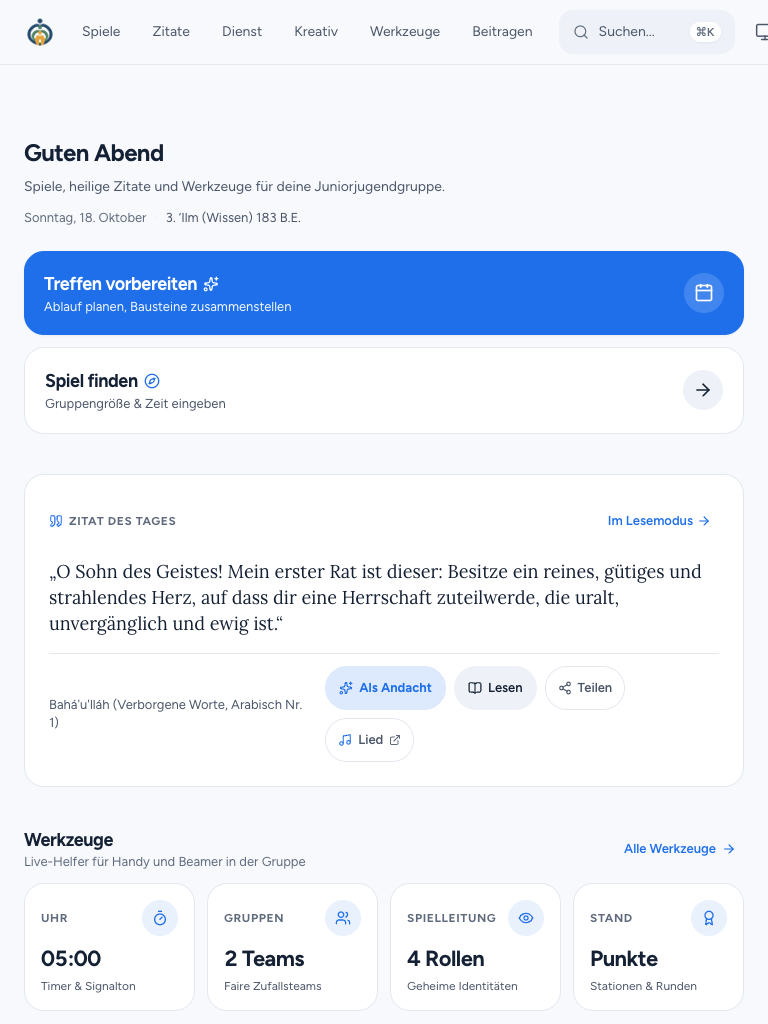
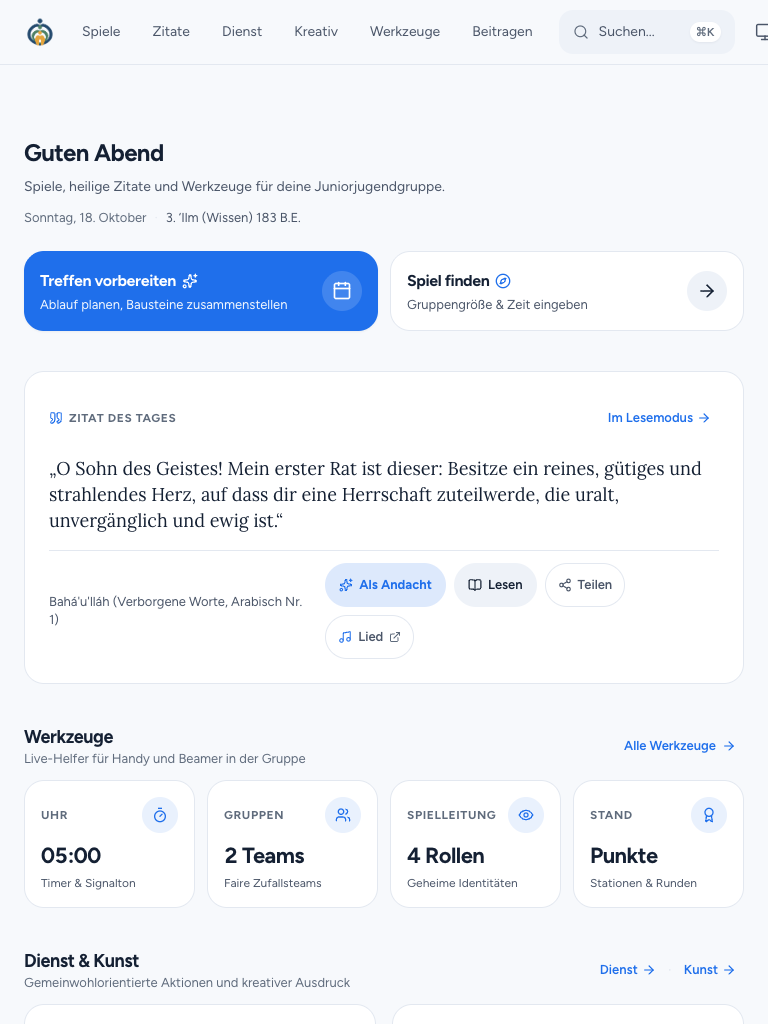
feat(home): display CTAs side-by-side in vertical viewports and stacked in horizontal viewports

diff --git a/src/components/HomeView.tsx b/src/components/HomeView.tsx
@@ -333,27 +333,30 @@ export const HomeView: React.FC<HomeViewProps> = ({ language, favorites }) => {
           </p>
         </header>
 
-        {/* Rechte Spalte: Die zwei großen CTA-Kacheln übereinander (lg:col-span-5) */}
+        {/* Rechte Spalte: In vertikaler Darstellung (Mobile) nebeneinander, in horizontaler Darstellung (Desktop) übereinander */}
         <div className="lg:col-span-5 space-y-3">
-          <nav aria-label={L('Haupteinstiege', 'Main navigation')} className="flex flex-col gap-3">
+          <nav
+            aria-label={L('Haupteinstiege', 'Main navigation')}
+            className="grid grid-cols-2 lg:flex lg:flex-col gap-2.5 sm:gap-3"
+          >
             {/* Hauptaktion: Treffen vorbereiten */}
             <Link
               to="/treffen"
-              className="rounded-card bg-accent text-accent-contrast p-4 sm:p-5 shadow-1 hover:bg-accent-hover transition-all duration-150 flex items-center justify-between group cursor-pointer focus-visible:ring-2 focus-visible:ring-accent"
+              className="rounded-card bg-accent text-accent-contrast p-3.5 sm:p-4 lg:p-5 shadow-1 hover:bg-accent-hover transition-all duration-150 flex flex-col justify-between sm:flex-row sm:items-center sm:justify-between group cursor-pointer focus-visible:ring-2 focus-visible:ring-accent min-h-[92px] sm:min-h-0"
             >
-              <div className="space-y-0.5 min-w-0 pr-2">
-                <div className="flex items-center gap-1.5 font-extrabold text-base sm:text-lg tracking-tight">
+              <div className="space-y-0.5 min-w-0 pr-1">
+                <div className="flex items-center gap-1.5 font-extrabold text-sm sm:text-base lg:text-lg tracking-tight">
                   <span>{L('Treffen vorbereiten', 'Prepare gathering')}</span>
-                  <Sparkles className="w-4 h-4 text-accent-contrast shrink-0" />
+                  <Sparkles className="w-3.5 h-3.5 sm:w-4 sm:h-4 text-accent-contrast shrink-0" />
                 </div>
-                <p className="text-xs text-accent-contrast/95 font-medium leading-tight">
+                <p className="text-2xs sm:text-xs text-accent-contrast/95 font-medium leading-tight">
                   {slotCount > 0
                     ? `${slotCount} ${L('Bausteine', 'blocks')} · ${totalMinutes} min`
                     : L('Ablauf planen, Bausteine zusammenstellen', 'Plan agenda, assemble building blocks')}
                 </p>
               </div>
-              <div className="w-10 h-10 rounded-full bg-accent-contrast/15 flex items-center justify-center shrink-0 group-hover:translate-x-0.5 transition-transform">
-                <Calendar className="w-5 h-5 text-accent-contrast" />
+              <div className="w-8 h-8 sm:w-10 sm:h-10 rounded-full bg-accent-contrast/15 flex items-center justify-center shrink-0 self-end sm:self-center mt-2 sm:mt-0 group-hover:translate-x-0.5 transition-transform">
+                <Calendar className="w-4 h-4 sm:w-5 sm:h-5 text-accent-contrast" />
               </div>
             </Link>
 
@@ -361,19 +364,19 @@ export const HomeView: React.FC<HomeViewProps> = ({ language, favorites }) => {
             <button
               type="button"
               onClick={() => setShowCompactFinder(!showCompactFinder)}
-              className="rounded-card bg-surface border border-line p-4 sm:p-5 shadow-xs hover:border-accent hover:shadow-1 transition-all duration-150 flex items-center justify-between group cursor-pointer text-left focus-visible:ring-2 focus-visible:ring-accent"
+              className="rounded-card bg-surface border border-line p-3.5 sm:p-4 lg:p-5 shadow-xs hover:border-accent hover:shadow-1 transition-all duration-150 flex flex-col justify-between sm:flex-row sm:items-center sm:justify-between group cursor-pointer text-left focus-visible:ring-2 focus-visible:ring-accent min-h-[92px] sm:min-h-0"
             >
-              <div className="space-y-0.5 min-w-0 pr-2">
-                <div className="flex items-center gap-1.5 font-bold text-base sm:text-lg text-text group-hover:text-accent tracking-tight transition-colors">
+              <div className="space-y-0.5 min-w-0 pr-1">
+                <div className="flex items-center gap-1.5 font-bold text-sm sm:text-base lg:text-lg text-text group-hover:text-accent tracking-tight transition-colors">
                   <span>{L('Spiel finden', 'Find a game')}</span>
-                  <Compass className="w-4 h-4 text-accent shrink-0" />
+                  <Compass className="w-3.5 h-3.5 sm:w-4 sm:h-4 text-accent shrink-0" />
                 </div>
-                <p className="text-xs text-text-secondary leading-tight">
+                <p className="text-2xs sm:text-xs text-text-secondary leading-tight">
                   {L('Gruppengröße & Zeit eingeben', 'Pick group size & time')}
                 </p>
               </div>
-              <div className="w-10 h-10 rounded-full bg-surface-2 text-text flex items-center justify-center shrink-0 group-hover:bg-accent/15 group-hover:text-accent transition-colors">
-                <ArrowRight className="w-5 h-5" />
+              <div className="w-8 h-8 sm:w-10 sm:h-10 rounded-full bg-surface-2 text-text flex items-center justify-center shrink-0 self-end sm:self-center mt-2 sm:mt-0 group-hover:bg-accent/15 group-hover:text-accent transition-colors">
+                <ArrowRight className="w-4 h-4 sm:w-5 sm:h-5" />
               </div>
             </button>
           </nav>
